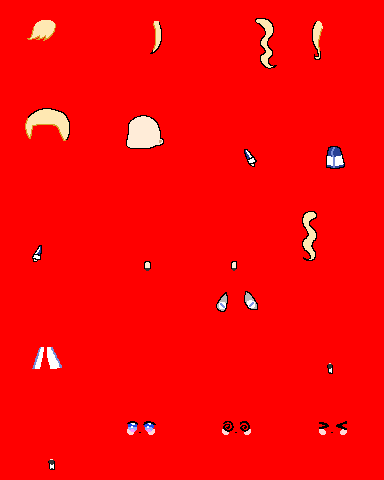
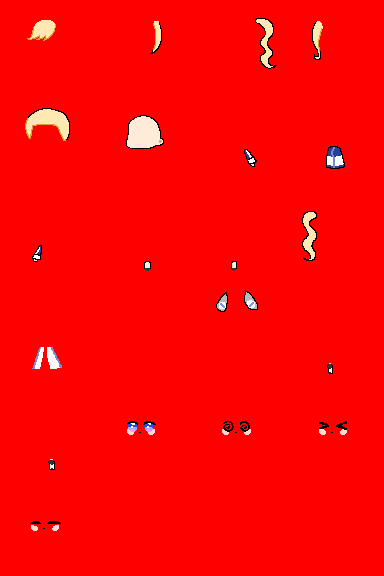
sleep animation + facial expression for sit and sleep animation

diff --git a/live2d/live2d.py b/live2d/live2d.py
@@ -25,9 +25,10 @@ PART_NAMES = [
     "right_leg",
     "neutral",
     "dizzy",
-    "focused"
+    "focused",
+    "sleepy"
 ]
-FACIAL_EXPRESSION_PART_NAMES = ("neutral", "dizzy", "focused")
+FACIAL_EXPRESSION_PART_NAMES = ["neutral", "dizzy", "focused", "sleepy"]
 
 SHARED_MODEL_FILE = os.path.join(os.path.dirname(__file__), "shared_model.json")
 SHARED_ANIMATIONS_FILE = os.path.join(os.path.dirname(__file__), "shared_animations.json")
